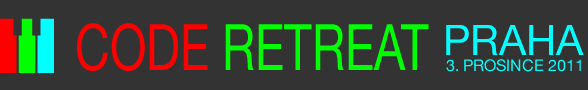
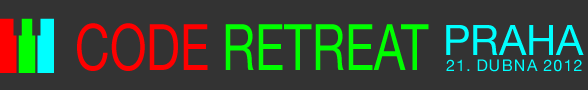
New event

Changed region(s): [[0.7347, 0.6444, 1.0, 0.8]]

diff --git a/index.html b/index.html
@@ -2,8 +2,8 @@
 <html itemscope itemtype="http://scheme.org/Event" lang="cs">
 <head>
     <meta charset="utf-8">
-    <title>Code Retreat Praha 3. prosince 2011</title>
-    <meta itemprop="description" name="description" content="První česká Code Retreat pořádaná v Praze">
+    <title>Code Retreat Praha 21. dubna 2012</title>
+    <meta itemprop="description" name="description" content="Druhá česká Code Retreat pořádaná v Praze">
     <meta itemprop="image" property="og:image" content="http://coderetreat.cz/coderetreat_big.png">
     <meta property="og:title" content="Code Retreat">
     <meta property="og:type" content="activity">
@@ -145,7 +145,7 @@
 
     <header>
         <h1><span itemprop="name">Code Retreat</span> Praha
-            <time datetime="2011-12-03">3. prosince 2011</time>
+            <time datetime="2012-4-21">21. dubna 2012</time>
         </h1>
     </header>
 
@@ -160,12 +160,6 @@
             principů modulárního a objektově-orientovaného návrhu mohou
             účastníci zlepšit své schopnosti psát kód, který minimalizuje
             náročnost implementace dalších změn.</p>
-
-            <p><strong>V sobotu, 3. prosince</strong>, pro vás poprvé přinášíme
-            Coderetreat i do České republiky. Jsme součástí akce <a
-            href="http://blog.coderetreat.com/global-day-of-coderetreat">Global
-            Day of Coderetreat</a> v rámci které se budou konat ve stejný den
-            Coderetreat-y po celém světě.</p>
 
             <p>Začíná se brzo - v&nbsp;8.00, ale můžete si být jisti, že to za
             to vstávání bude stát. Po krátkém úvodu a&nbsp;představení problému
@@ -218,9 +212,9 @@
         <section id="toc-chci-se-zucastnit">
             <h1>Chci se zúčastnit</h1>
             <p>Svůj zájem o účast na akci můžete vyjádřit níže nebo na
-                <a href="http://srazy.info/coderetreat/1477">stránce akce</a>.</p>
+                <a href="http://srazy.info/coderetreat/1966">stránce akce</a>.</p>
             <div class="srazy">
-                <iframe src="http://srazy.info/widget/attending?colorscheme=light&id=1477" scrolling="no" frameborder="0" style="border:none; overflow:hidden; width:450px; height:55px;" allowTransparency="true"></iframe>
+                <iframe src="http://srazy.info/widget/attending?colorscheme=light&id=1966" scrolling="no" frameborder="0" style="border:none; overflow:hidden; width:450px; height:55px;" allowTransparency="true"></iframe>
             </div>
             <p>Pro bližší informace sledujte náš twitter kanál @CodeRetreatCZ, kde budeme o akci
                 pravidelně informovat.</p>
@@ -230,9 +224,34 @@
             <h1>Partneři</h1>
 
             <div class="partneri">
+                <a href="http://www.vendavo.cz"><img src="vendavo.jpg" alt="Vendavo CZ"></a>
+            </div>
+        </section>
+
+        <section id="toc-prvni-code-retreat">
+            <h1>První česká Code Retreat</h1>
+
+            <p><strong>V sobotu, 3. prosince</strong>, jsme vám poprvé přinesli
+                Coderetreat i do České republiky. Byli jsme součástí akce <a
+                        href="http://blog.coderetreat.com/global-day-of-coderetreat">Global
+                    Day of Coderetreat</a>, v rámci které se konalo ve stejný den asi 90
+                Coderetreat-ů po celém světě.</p>
+
+            <h2>Partneři</h2>
+            <div class="partneri">
                 <a href="http://www.gmchk.cz/"><img src="http://gmchk.cz/design/img/ico_gmc_logo.png" alt="GMC Software Technology"></a>
                 <a href="http://www.think-forth.com/" style="margin-left: 30px"><img src="think-forth.png" alt="Think Forth"></a>
             </div>
+
+            <h2>Ohlasy</h2>
+            <ul>
+                <li><a href="http://photos.coderetreat.cz/">Fotografie z akce</a></li>
+                <li><a href="http://davidjs.com/2011/12/code-retreat-2011-prague/">David Votrubec - Co jsem si odnesl z Code Retreat 2011</a></li>
+                <li><a href="http://blog.novoj.net/2011/12/04/coderetreat-praha-2011/">Jan Novotný - CodeRetreat Praha 2011</a></li>
+                <li><a href="http://blog.martinhujer.cz/coderetreat-praha-3-12-2011/">Martin Hujer - CodeRetreat Praha - 3. 12. 2011</a></li>
+                <li><a href="http://blog.think-forth.com/2011/12/22/coderetreat-2011/">Marian Schubert - CodeRetreat - Praha 2011</a></li>
+                <li><a href="http://blog.think-forth.com/2012/01/03/coderetreat-zaverecna-retrospektiva/">Martin Pavlas - CodeRetreat - Závěrečná retrospektiva</a></li>
+            </ul>
         </section>
     </div>
 
